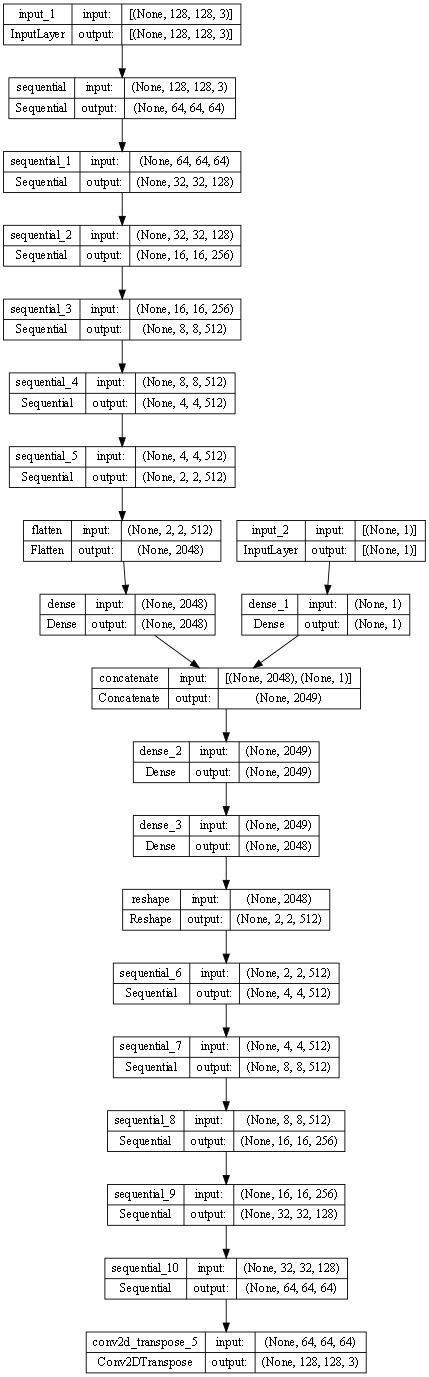
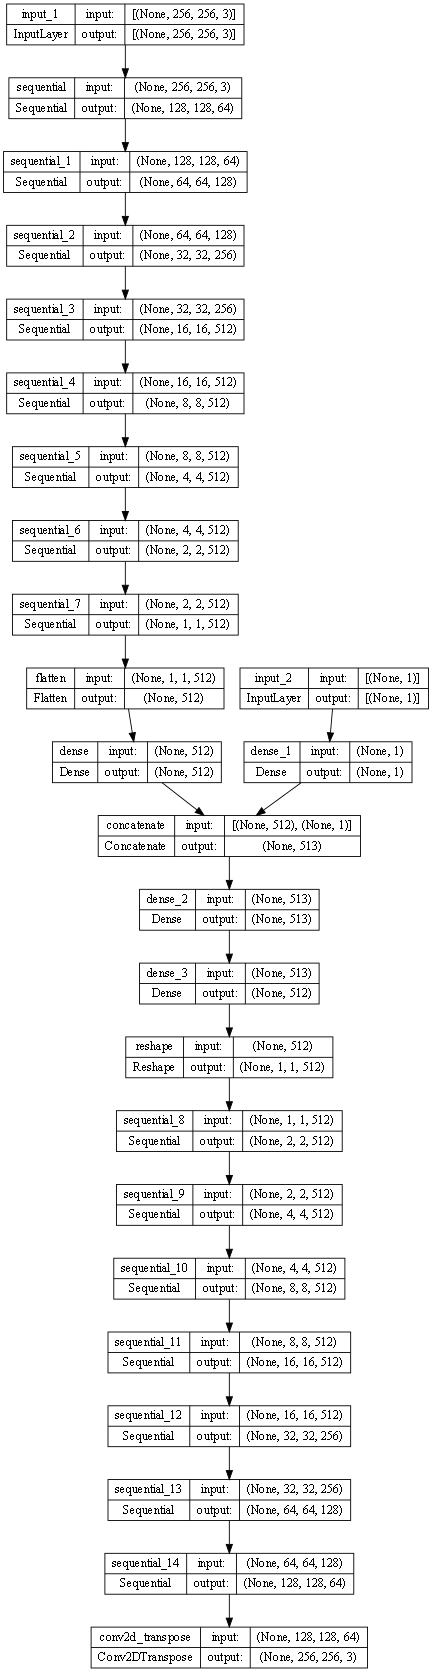
pre-discrim-model

Changed region(s): [[0.0, 0.0, 1.0, 0.9993]]

diff --git a/oscillation-model.py b/oscillation-model.py
@@ -5,19 +5,13 @@ from keras.layers import Input, Dense, Conv2D, Reshape, Dropout, Conv2DTranspose
 from keras.activations import relu, leaky_relu
 
 
-TARGET_SHAPE = (128,128,3,)
+TARGET_SHAPE = (256,256,3,)
 SHUFFLE_BUFFER = 500
-BATCH_SIZE = 2
-EPOCHS = 5
+BATCH_SIZE = 1
+EPOCHS = 1
 MAX_SAMPLES = 100
 
-gen_params = {'dim1': (128,128,3),
-            'dim2': (1),
-            'batch_size': 256,
-            'n_channels': 3,
-            'shuffle': True}
-
-data_path = r'E:\DATA\View Oscillation 2\NPZ'
+data_path = r'E:\DATA\View Oscillation 2\NPZ-F'
 
 def get_data_ids():
     all_ids = os.listdir(data_path)[:MAX_SAMPLES]
@@ -41,7 +35,7 @@ def generator(path):
 
 class DataGenerator(tf.keras.utils.Sequence):
     'Generates data for Keras'
-    def __init__(self, list_IDs, dpath ,batch_size=32, dim1=(128,128), dim2=(1,), n_channels=3, shuffle=True):
+    def __init__(self, list_IDs, dpath ,batch_size=32, dim1=(TARGET_SHAPE[0],TARGET_SHAPE[1]), dim2=(1,), n_channels=3, shuffle=True):
         'Initialization'
         self.dpath = dpath
         self.dim1 = dim1
@@ -144,11 +138,13 @@ def upsample(filters, size, apply_dropout=False):
 
 
 def get_branch0():
-    input0 = Input(shape=(128,128,3,))
+    input0 = Input(shape=TARGET_SHAPE)
 
     down_stack = [downsample(64,4,apply_batchnorm=False),
                     downsample(128,4),
                     downsample(256,4),
+                    downsample(512,4),
+                    downsample(512,4),
                     downsample(512,4),
                     downsample(512,4),
                     downsample(512,4)]
@@ -161,7 +157,7 @@ def get_branch0():
         x = down(x)
     
     x = Flatten()(x)
-    x = Dense(2048,activation='sigmoid')(x)
+    x = Dense(512,activation='sigmoid')(x)
 
     model = tf.keras.models.Model(input0,x)
     return model
@@ -178,14 +174,24 @@ def get_model_full():
     branch0 = get_branch0()
     branch1 = get_branch1()
     combined_branches = Concatenate()([branch0.output,branch1.output])
-    x = Dense(2049,'relu')(combined_branches)
-    x = Dense(2048,'sigmoid')(x)
-    x = Reshape((2,2,512,))(x)
+    x = Dense(513,'relu')(combined_branches)
+    x = Dense(512,'sigmoid')(x)
+    x = Reshape((1,1,512,))(x)
+
+    initializer = tf.random_normal_initializer(0., 0.02)
+    last = Conv2DTranspose(3,
+                        4,
+                        strides=2,
+                        padding='same',
+                        kernel_initializer=initializer,
+                        activation='tanh')
     
     
     up_stack = [upsample(512,4, apply_dropout=True),
                     upsample(512,4, apply_dropout=True),
-                    upsample(256,4, apply_dropout=True),
+                    upsample(512,4, apply_dropout=True),
+                    upsample(512,4),
+                    upsample(256,4),
                     upsample(128,4),
                     upsample(64,4)]
                     #upsample(512,4),
@@ -195,16 +201,7 @@ def get_model_full():
     for up in up_stack:
         x = up(x)
 
-    initializer = tf.random_normal_initializer(0., 0.02)
-
-    x = Conv2DTranspose(3,
-                        4,
-                        strides=2,
-                        padding='same',
-                        kernel_initializer=initializer,
-                        activation='tanh')(x)
-
-    
+    x = last(x)
 
     return tf.keras.Model(inputs=[branch0.input,branch1.input],outputs=x)
 
@@ -225,8 +222,8 @@ if __name__ == '__main__':
 
     train_ids, val_ids = get_data_ids()
 
-    train_gen = DataGenerator(train_ids, data_path,batch_size=32)
-    val_gen = DataGenerator(val_ids, data_path,batch_size=32)
+    train_gen = DataGenerator(train_ids, data_path,batch_size=BATCH_SIZE)
+    val_gen = DataGenerator(val_ids, data_path,batch_size=BATCH_SIZE)
 
     
 
@@ -236,7 +233,7 @@ if __name__ == '__main__':
     model.compile(optimizer='adam', loss=tf.keras.losses.MeanSquaredError(), metrics=['mean_squared_error'])
     #train_dataset,test_dataset = get_dataset()
     #model.fit(train_dataset, validation_data = test_dataset, epochs=EPOCHS)
-    model.fit(train_gen,validation_data=val_gen,epochs=4)
+    model.fit(train_gen,validation_data=val_gen,epochs=EPOCHS)
 
-    model.save(r'E:\DATA\View Oscillation 2\models\oscill-128.h5')
+    model.save(r'E:\DATA\View Oscillation 2\models\oscill-{}.h5'.format(TARGET_SHAPE[0]))
 

diff --git a/demo_gen.py b/demo_gen.py
@@ -7,12 +7,12 @@ data = r'E:\DATA\View Oscillation'
 models = r'E:\DATA\View Oscillation 2\models'
 img_save_dir = r'E:\DATA\View Oscillation 2\Demo'
 
-target_size = (128,128)
+target_size = (256,256)
 num_examples = 5
 
 def get_img(path):
     img = cv2.resize(cv2.imread(path),target_size)
-    return np.array(img)/255
+    return (np.array(img)/127.5)-1
 
 
 def get_demo_imgs():
@@ -33,7 +33,9 @@ def get_model():
 
 def save_demo(img, index, pred=True):
     img = img.numpy()
-    img = (img*255).astype(int)
+    img = ((img+1)*127.5).astype(int)
+    #print(img)
+    #s=input('..')
     if pred==True:
         cv2.imwrite(os.path.join(img_save_dir,'pred',str(index)+'.jpg'),img)
     else:
@@ -44,5 +46,6 @@ if __name__ == '__main__':
     model = get_model()
     demo_imgs = get_demo_imgs()
 
-    img_pred0 = model([[np.expand_dims(demo_imgs[0][0],axis=0),np.expand_dims(np.array(0.5),axis=0)]])[0]
+    img_pred0 = model([[np.expand_dims(demo_imgs[0][0],axis=0),np.expand_dims(np.array(0.0),axis=0)]])[0]
+    
     save_demo(img_pred0,0,pred=True)

diff --git a/data-handling.py b/data-handling.py
@@ -3,14 +3,14 @@ import numpy as np
 from progress.bar import Bar
 
 data = r'E:\DATA\View Oscillation'
-data2 = r'E:\DATA\View Oscillation 2\NPZ'
-target_size = (512,512)
+data2 = r'E:\DATA\View Oscillation 2\NPZ-F'
+target_size = (128,128)
 
-num_unique_scenes = 1000
+num_unique_scenes = 100
 
 def get_img(path):
     img = cv2.resize(cv2.imread(path),target_size)
-    return np.array(img)/255
+    return (np.array(img)/127.5)-1
 
 
 def to_npz():
@@ -22,7 +22,7 @@ def to_npz():
             d_imgs.append(get_img(os.path.join(data,str(d),str(n).zfill(4)+'.jpg')))
         for i,img in enumerate(d_imgs):
             x0 = d_imgs[0]
-            x1 = float(i)/46
+            x1 = (float(i)/23)-1
             y0 = img
             np.savez(os.path.join(data2,str(example_index).zfill(5)+'.npz'),
                 x0 = np.array(x0), 
